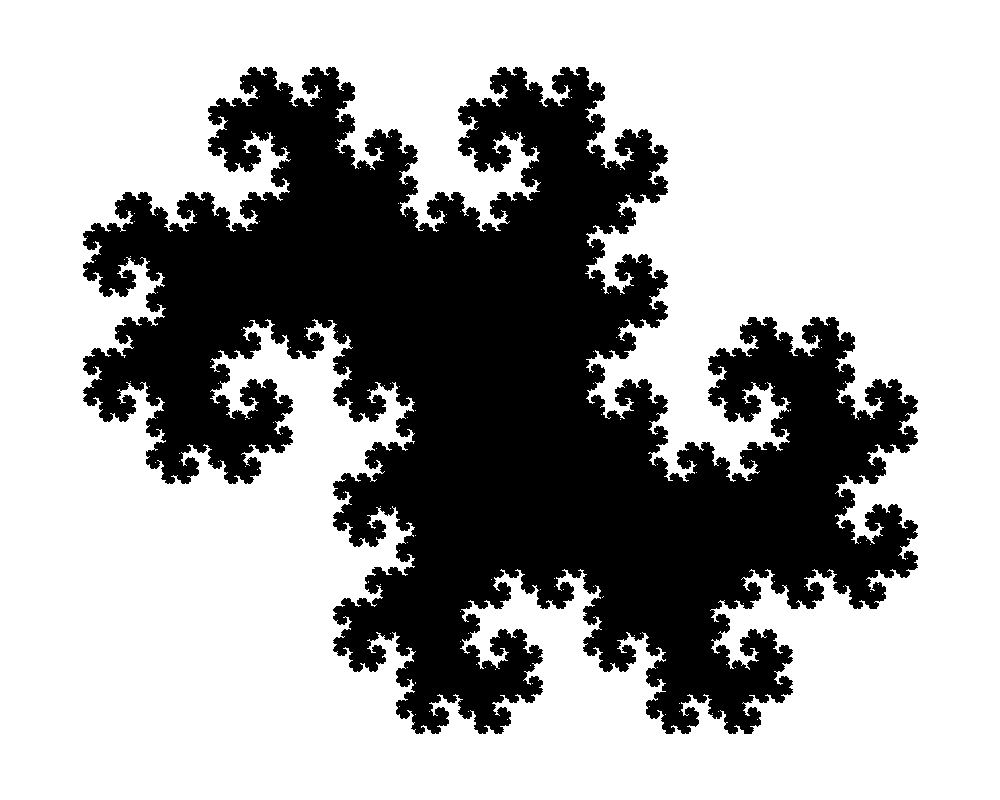
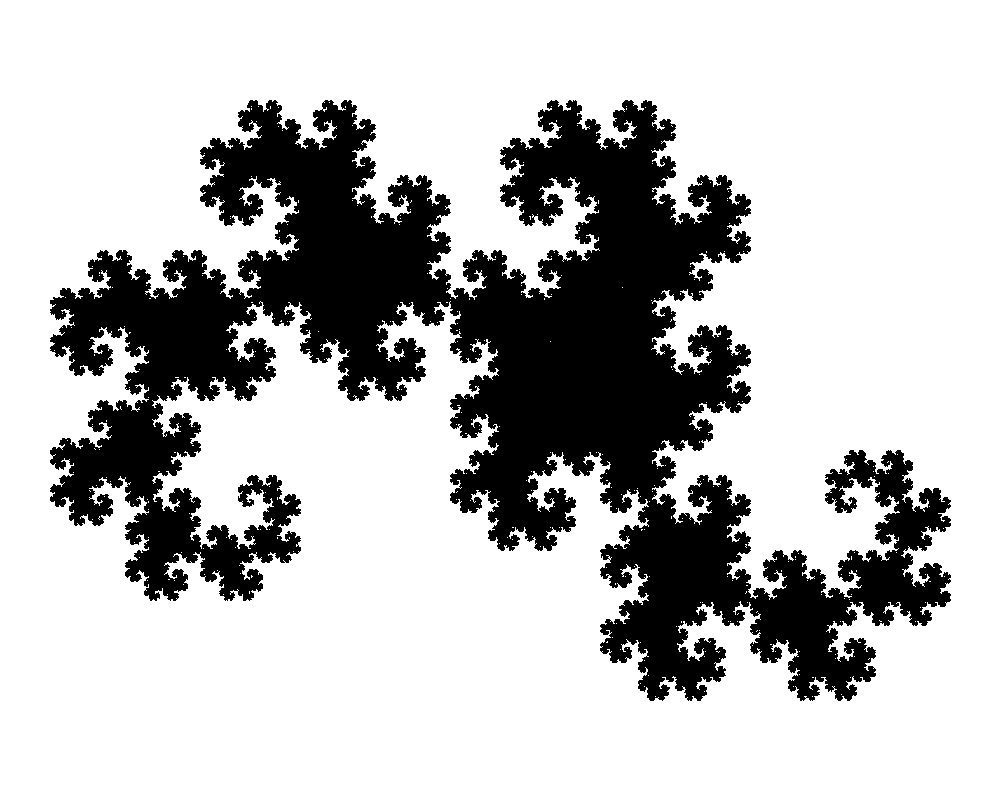
Fix typo in the Heighway Dragon

Changed region(s): [[0.031, 0.0625, 0.961, 0.9375]]

diff --git a/README.md b/README.md
@@ -135,7 +135,7 @@ stack exec -- fernery-exe -f levyDragon -o '(275,250)' -s '(450,450)' -d '(1000,
 ### The Heighway Dragon
 
 ```bash
-stack exec -- fernery-exe -f heighwayDragon -o '(250,400)' -d '(1000, 800)' -s '(500,500)' -c 'PixelRGBA8 0 0 0 255' -b 'PixelRGBA8 255 255 255 255' -i 10000000
+stack exec -- fernery-exe -f heighwayDragon -o '(250,500)' -d '(1000, 800)' -s '(600,600)' -c 'PixelRGBA8 0 0 0 255' -b 'PixelRGBA8 255 255 255 255' -i 2000000
 ```
 
 <p align="center">
